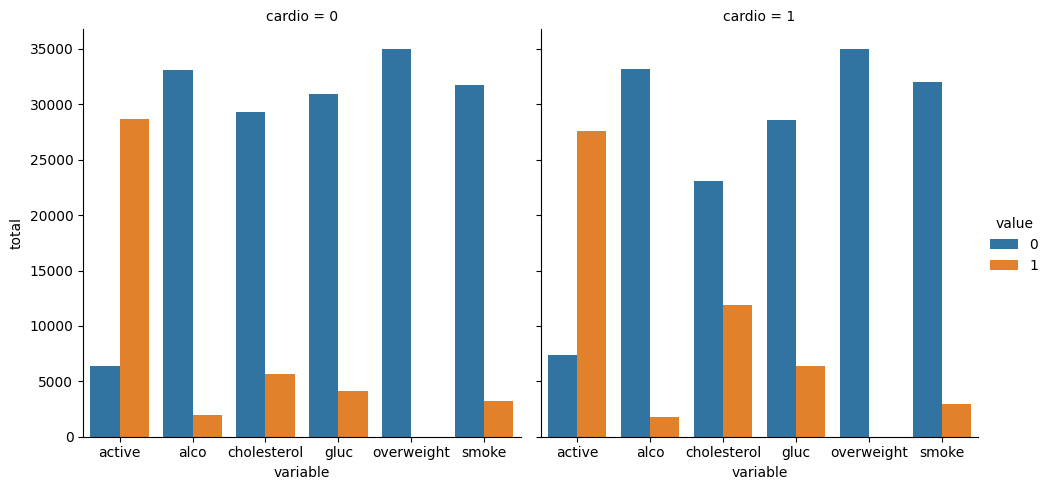
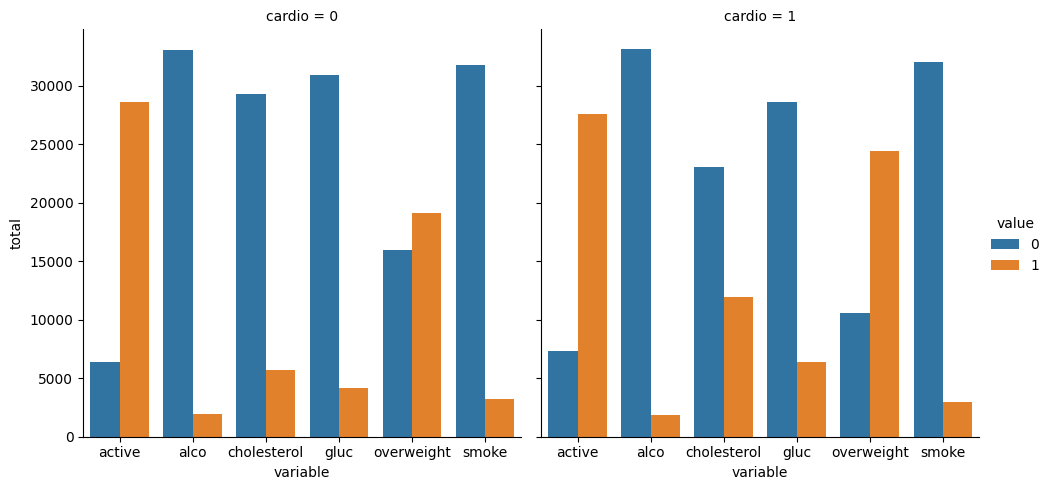
Corr matrix + fixed overweight col

diff --git a/boilerplate-medical-data-visualizer/medical_data_visualizer.py b/boilerplate-medical-data-visualizer/medical_data_visualizer.py
@@ -7,7 +7,9 @@ import numpy as np
 df = pd.read_csv("medical_examination.csv")
 
 # 2
-df["overweight"] = (df["weight"] / (df["height"] * df["height"]) > 25).astype(int)
+df["overweight"] = ((df["weight"] / (df["height"] * df["height"] / 10000)) > 25).astype(
+    int
+)
 
 # 3
 df["cholesterol"] = (df["cholesterol"] > 1).astype(int)
@@ -52,10 +54,19 @@ def draw_cat_plot():
 # 10
 def draw_heat_map():
     # 11
-    df_heat = None
+    df_heat = df[
+        (df["ap_lo"] <= df["ap_hi"])
+        & (df["height"] >= df["height"].quantile(0.025))
+        & (df["height"] <= df["height"].quantile(0.975))
+        & (df["weight"] >= df["weight"].quantile(0.025))
+        & (df["weight"] <= df["weight"].quantile(0.975))
+    ]
+    print(df_heat)
 
     # 12
-    corr = None
+    corr = df_heat.corr()
+
+    print(corr)
 
     # 13
     mask = None
